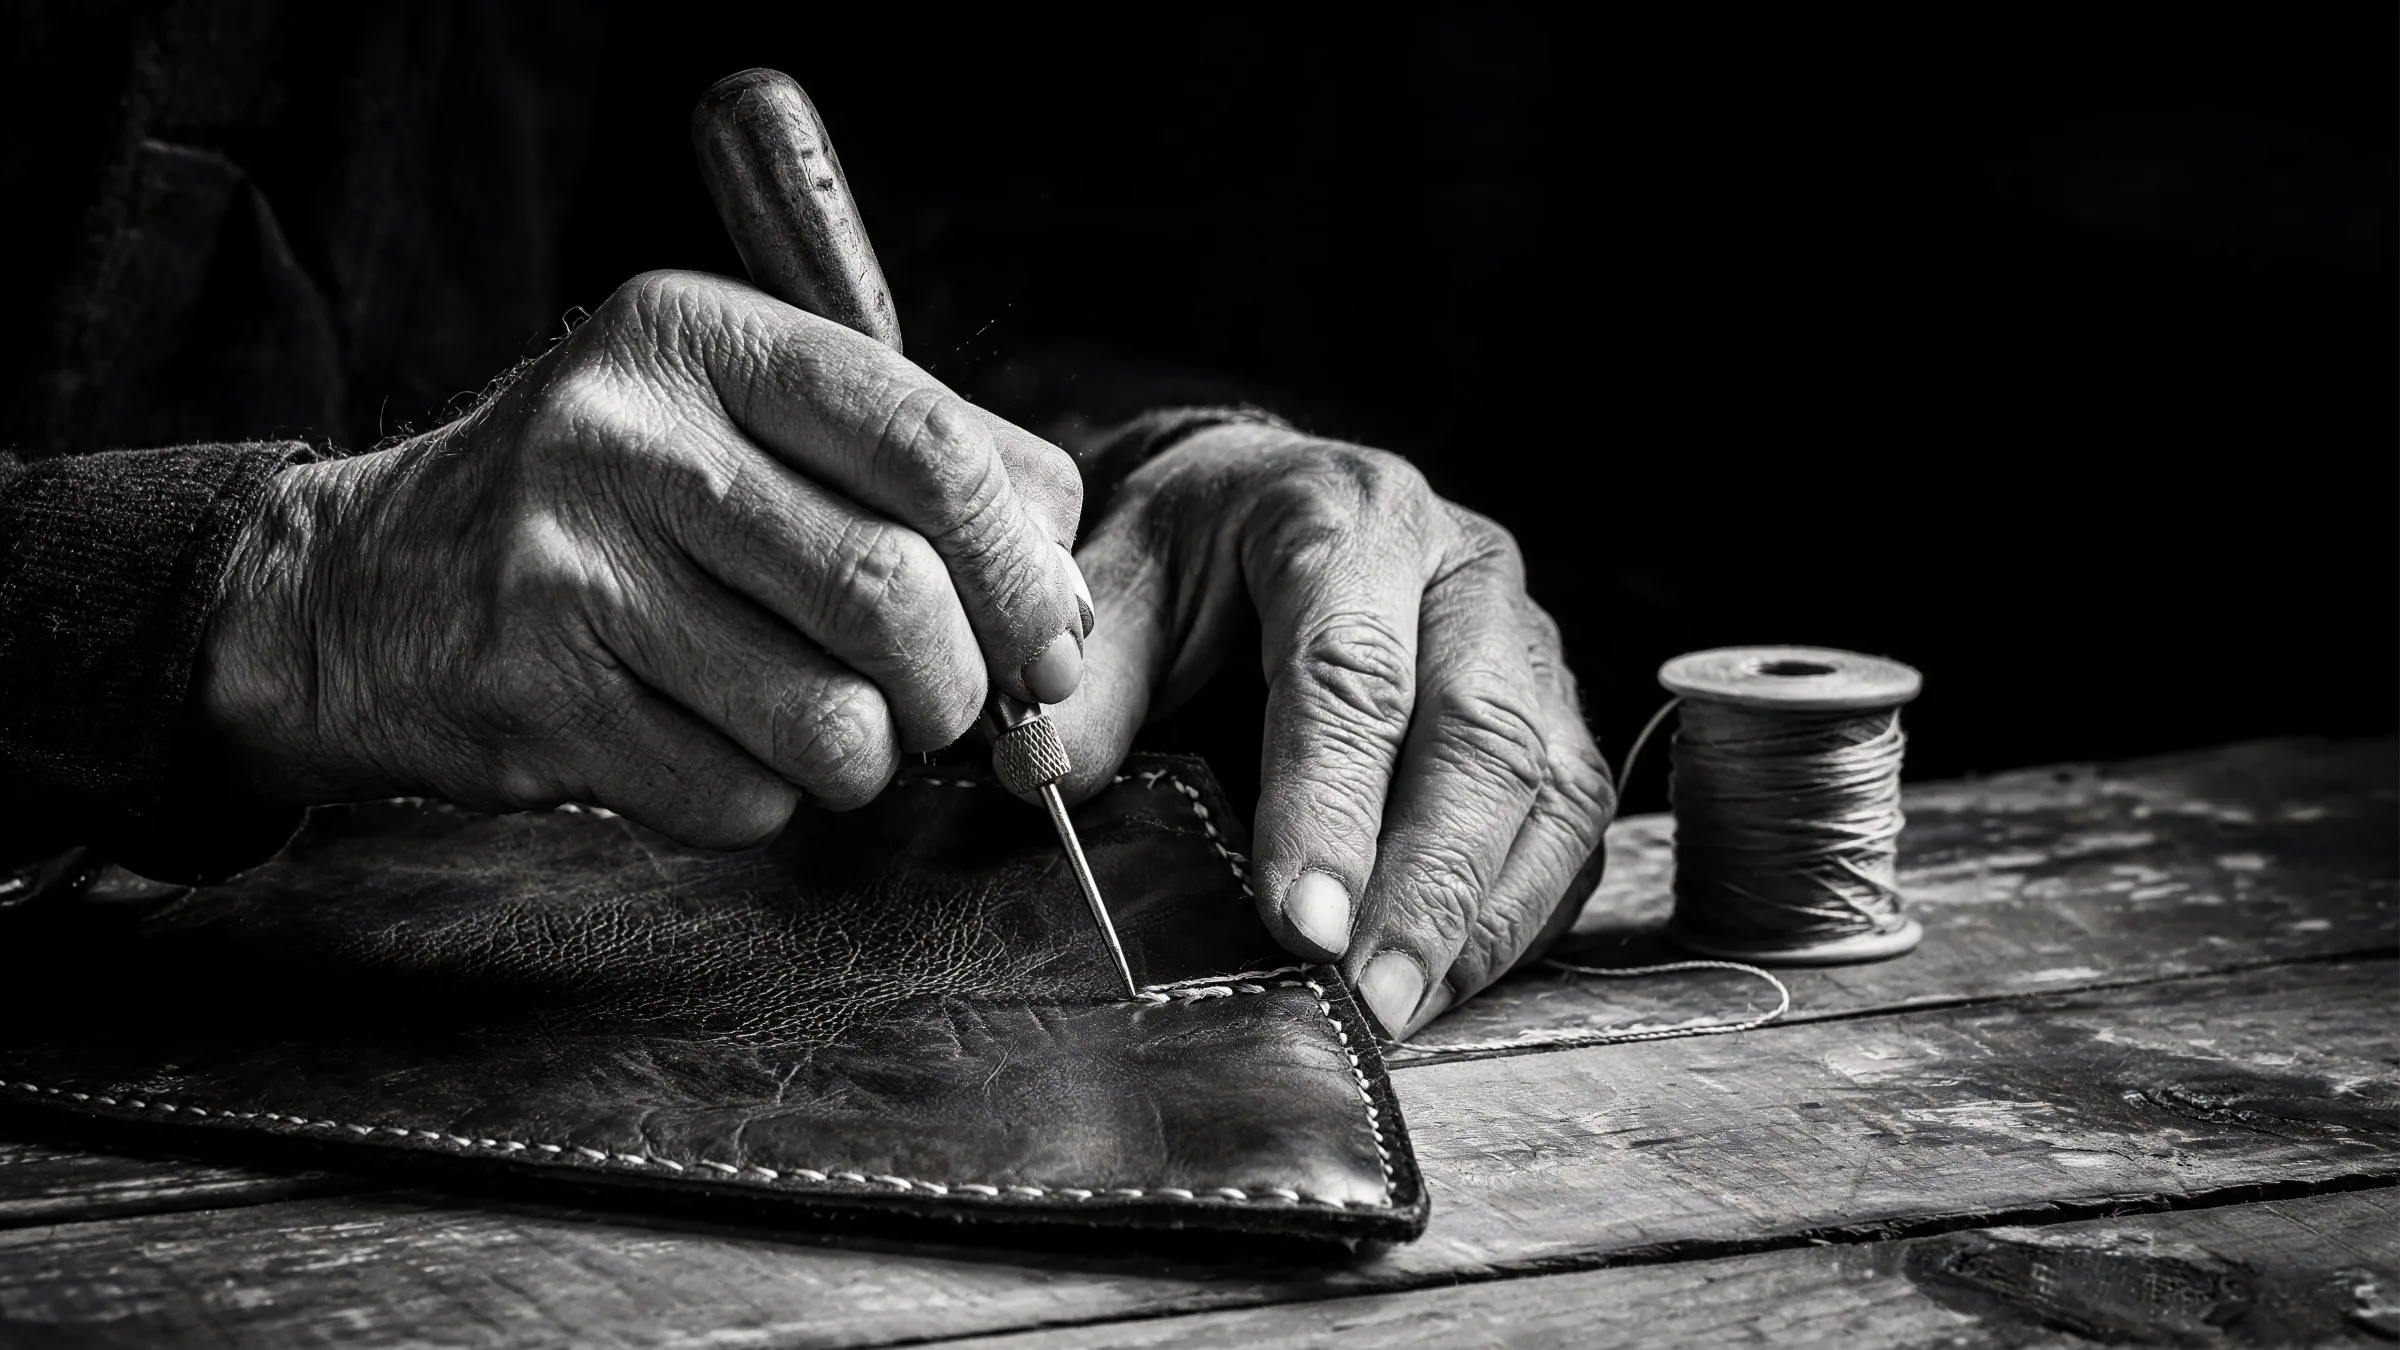
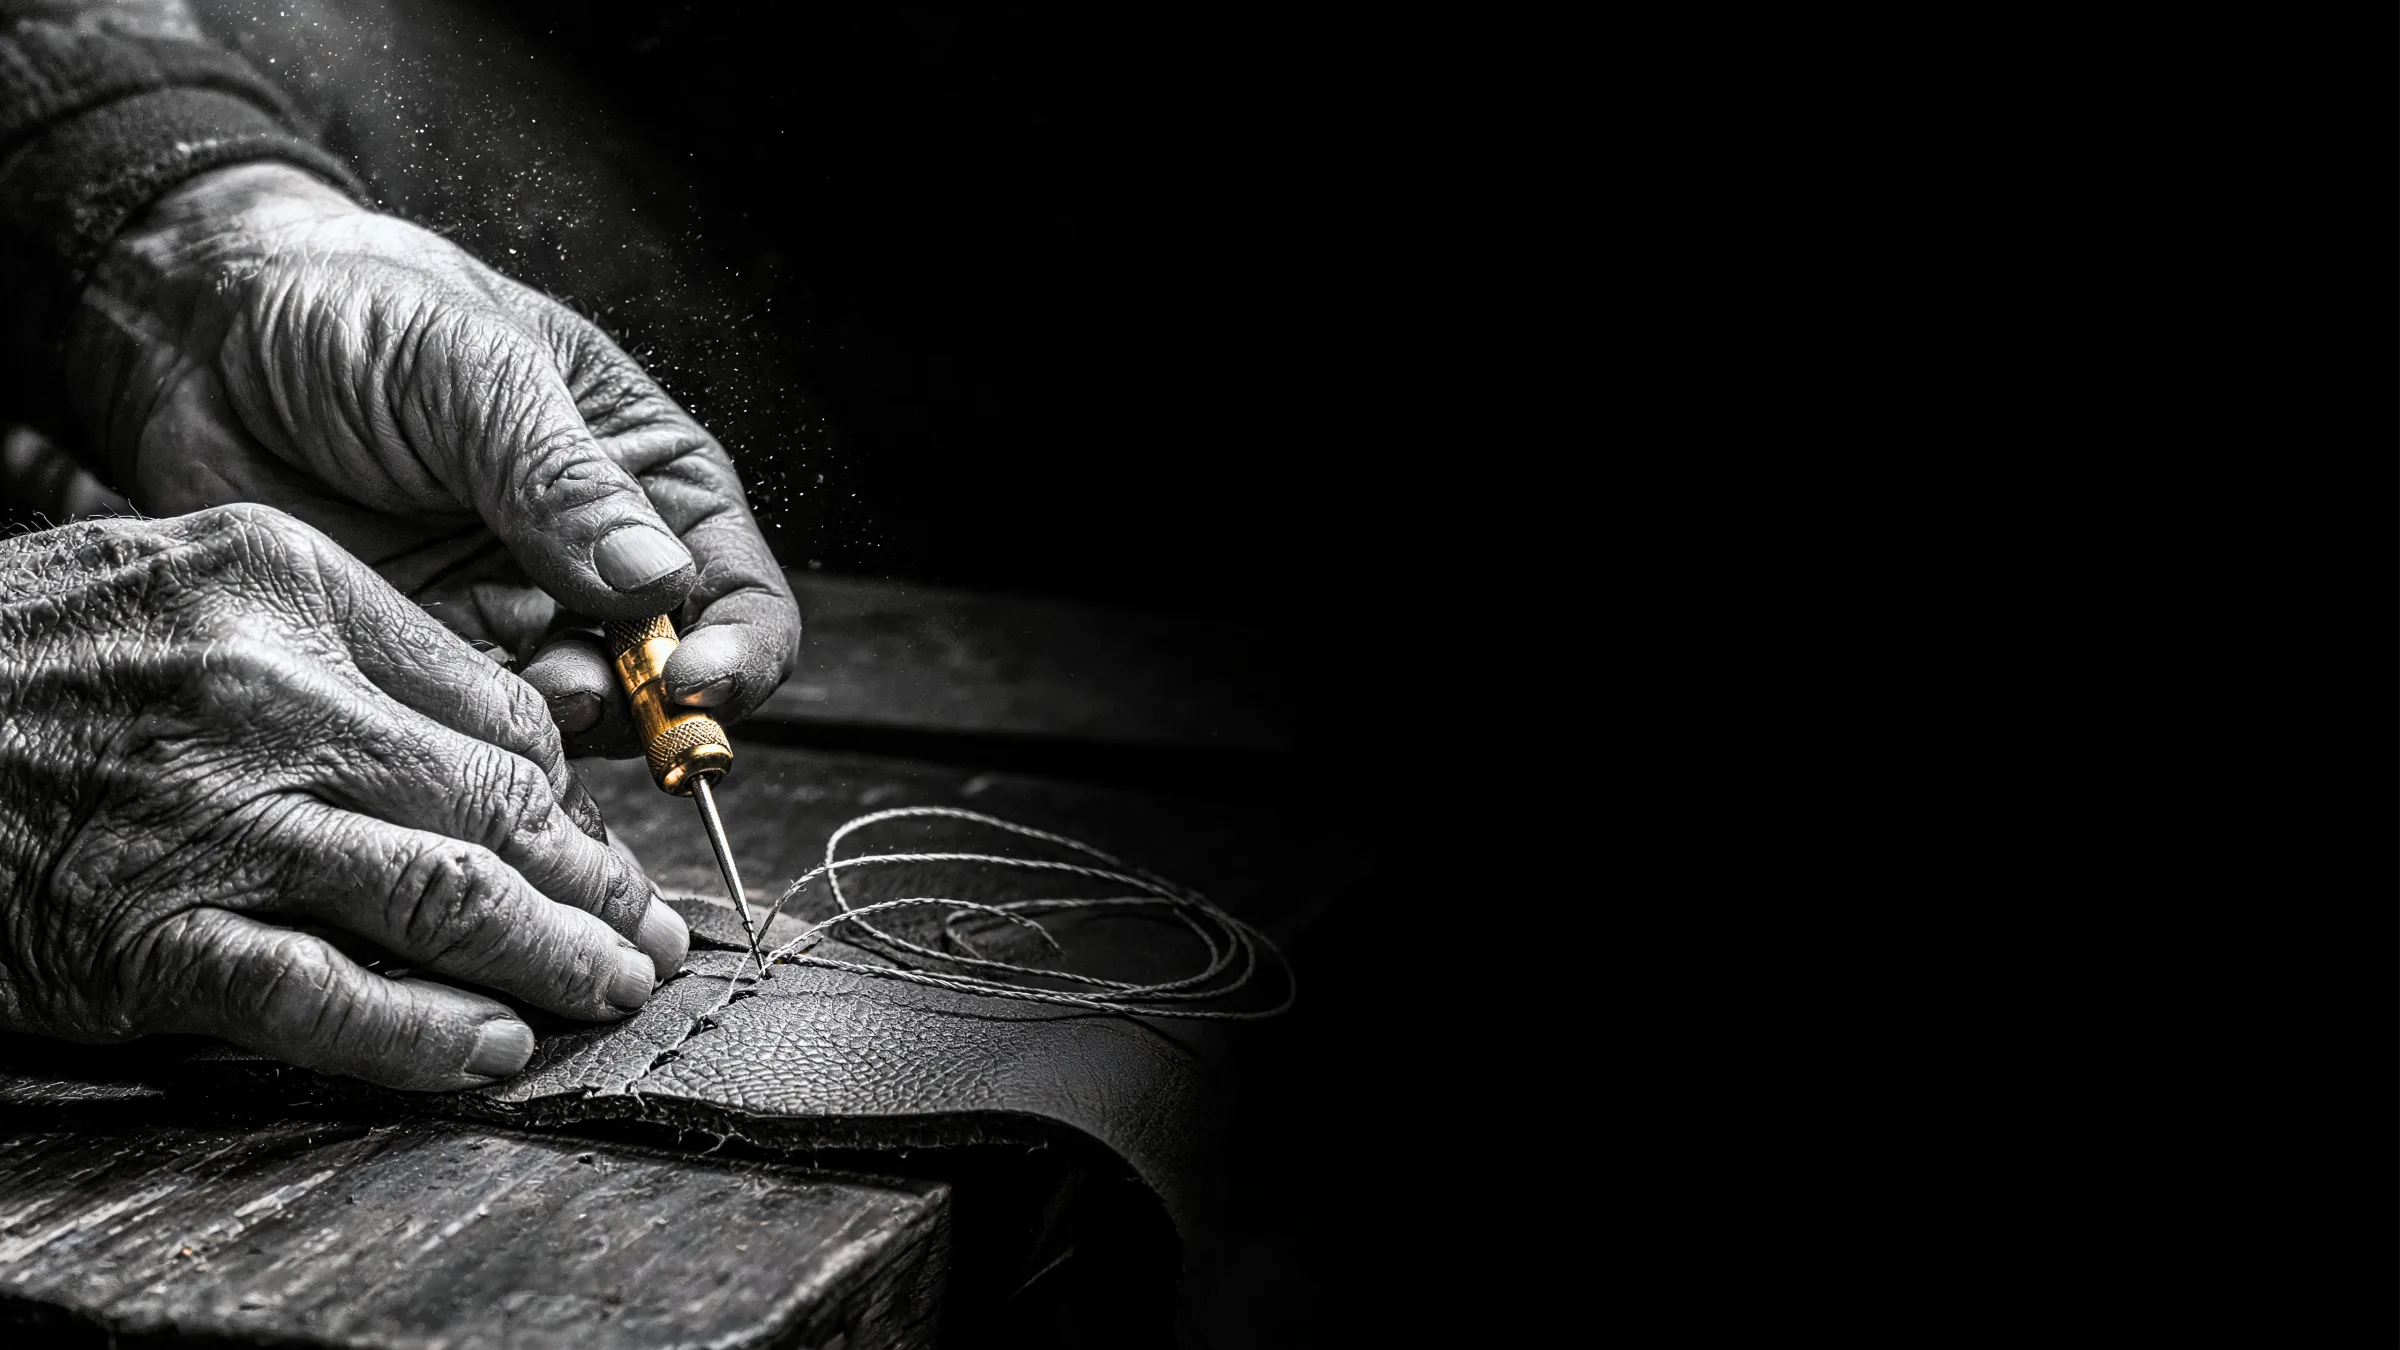
feat(artisan-dossier): swap atelier plate to brass-awl saddle-stitch portrait
New B&W portrait — aged hands gripping a brass-handled awl mid saddle-stitch,
waxed thread coiled in the foreground, dark right-half void preserved for
future overlay use. Anchored object-left so the 4:3 sidebar crop keeps the
hands intact. Master PNG archived in ~/brand-assets/maison-tanneurs/.

diff --git a/components/store/ArtisanDossier.tsx b/components/store/ArtisanDossier.tsx
@@ -66,15 +66,15 @@ export default function ArtisanDossier() {
 
             <div className="mt-10 border-t border-[#e5e5e5] pt-6">
               <div
-                className="relative bg-[#f9f9f9] overflow-hidden"
+                className="relative bg-black overflow-hidden"
                 style={{ aspectRatio: "4 / 3" }}
               >
                 <Image
                   src={PLATE_SRC}
-                  alt="A master tanner saddle-stitching in the Marrakech atelier"
+                  alt="A master artisan saddle-stitching full-grain leather in the Marrakech atelier"
                   fill
                   sizes="(min-width: 768px) 41vw, 100vw"
-                  className="object-cover"
+                  className="object-cover object-left"
                 />
               </div>
               <p className="mt-3 tech-meta opacity-60">